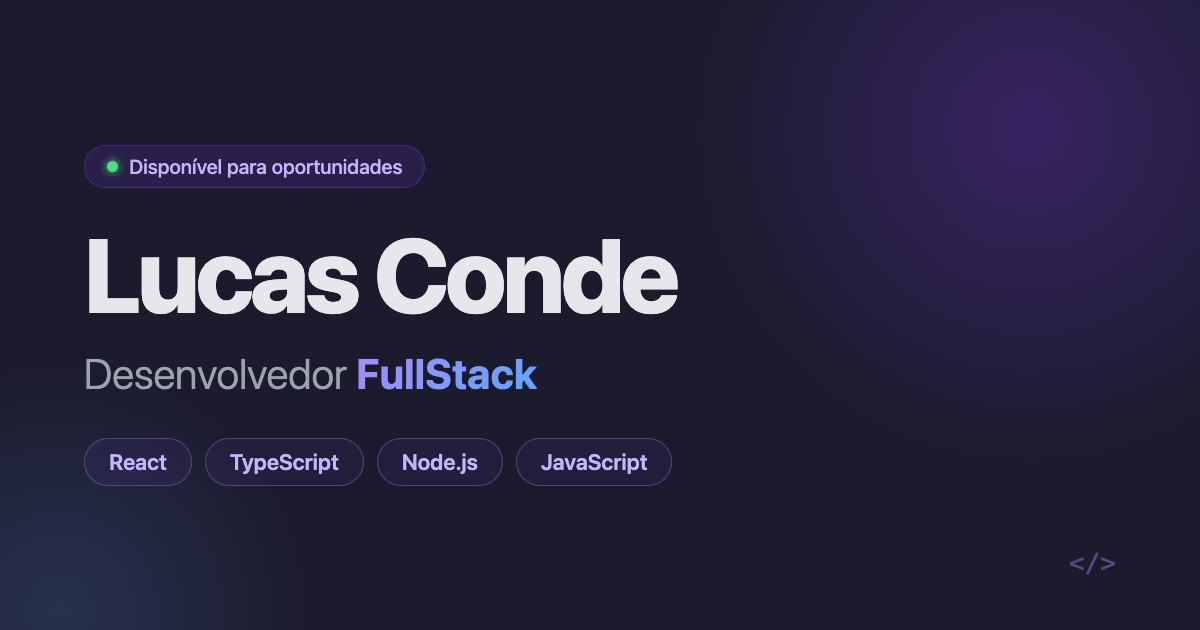
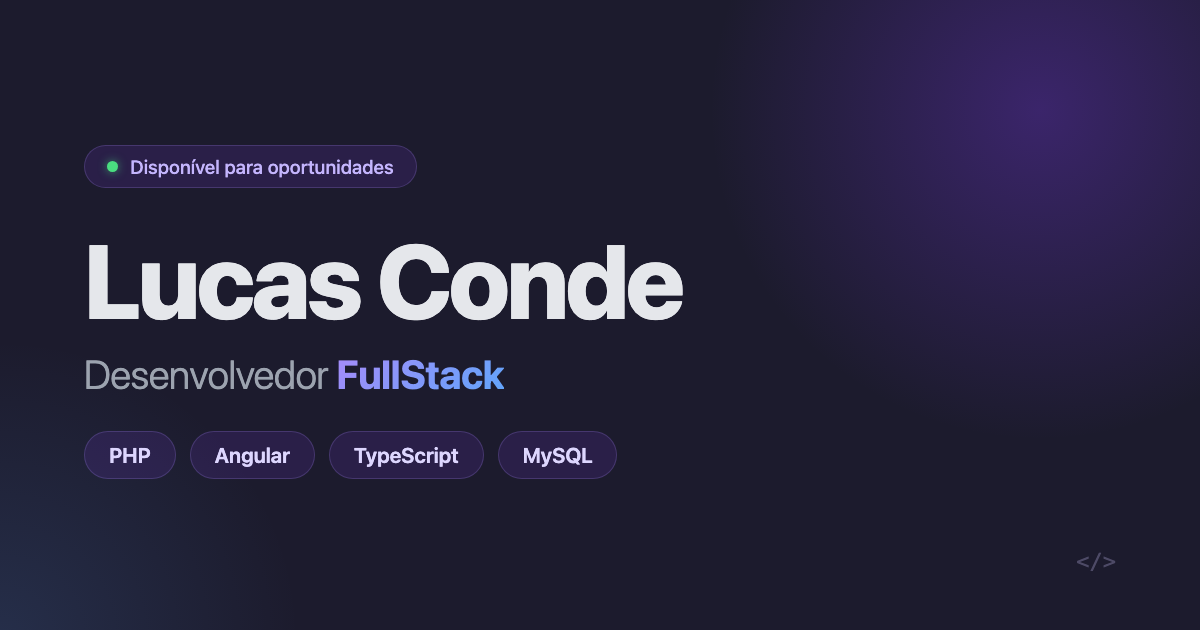
atualizaçao

diff --git a/js/components/Projects/ProjectsData.js b/js/components/Projects/ProjectsData.js
@@ -8,24 +8,24 @@ export const ProjectData = [
   {
     slug: "cliniclis",
     title: "Cliniclis",
-    tagline: "Produto próprio: sistema de gestão sob medida para clínicas, já em operação",
+    tagline: "Produto próprio: SaaS de gestão para clínicas em PHP e Angular, em produção",
     year: "2026",
     type: "Produto próprio",
     featured: true,
     description:
-      "Negócio que montei para atender clínicas médicas e de estética: um sistema de gestão que reúne agenda, prontuário, financeiro e galeria de resultados, entregue sob medida para cada clínica, mais o site institucional quando o cliente precisa. Está em operação com clínicas reais.",
+      "SaaS que criei e mantenho sozinho para clínicas médicas e estéticas: agenda, ficha com fotos de evolução, financeiro, relatórios, contratos com assinatura eletrônica e confirmação por WhatsApp num só sistema. É vendido por assinatura em dois planos e está em operação com clínicas reais. Assinantes também podem contratar o site institucional da clínica.",
     problem:
-      "Clínicas pequenas tocam a operação em papel, planilha e conversa de WhatsApp. Agendamento, ficha de anamnese, evolução do tratamento e cobrança vivem separados, então ninguém sabe ao certo quem atendeu o quê, quanto entrou no mês ou quando um paciente precisa voltar. As plataformas prontas do mercado cobram mensalidade e não se dobram ao fluxo de cada clínica.",
+      "Clínicas pequenas tocam a operação em papel, planilha e conversa de WhatsApp. Agendamento, anamnese, evolução do tratamento e cobrança vivem separados, então ninguém sabe ao certo quem atendeu o quê, quanto entrou no mês ou quando um paciente precisa voltar. As plataformas prontas costumam ser genéricas e ter suporte por ticket, longe de quem desenvolve.",
     solution:
-      "Construí um front em Angular sobre uma API REST em PHP com MariaDB, rodando em hospedagem compartilhada para caber no orçamento de clínica pequena. A base é a mesma para todos os clientes, com os dados de cada clínica isolados e os módulos habilitados um a um, o que permite entregar algo sob medida sem manter um sistema diferente por cliente.",
+      "Escrevi uma API REST em PHP puro, sem framework, sobre MariaDB, e um front em Angular com Bootstrap. Tudo roda em hospedagem compartilhada, o que mantém o custo baixo o bastante para clínica pequena. Uma única instalação atende todas as clínicas: os dados são isolados por clínica a partir do token de sessão, cada uma recebe a cor da sua marca, e o plano contratado liga ou desliga módulos tanto na API quanto nas rotas do front.",
     highlights: [
-      "Uma base, várias clínicas: dados isolados por cliente e módulos habilitáveis um a um",
-      "Agenda por dia ou semana, por profissional, com bloqueio de horário",
-      "Prontuário com fichas configuráveis por template e evolução do tratamento",
-      "Financeiro, relatórios, registro de ponto e controle de equipe",
-      "Galeria de resultados que alimenta uma vitrine pública por link rotacionável",
-      "API REST em PHP com cerca de 70 endpoints e migrações idempotentes",
-      "Ambiente local em Docker e CI barrando regressões de estilo e dívida técnica"
+      "PHP puro, sem framework: cerca de 70 endpoints e 31 mil linhas de back-end",
+      "Multi-tenant: dados isolados por clínica, com a clínica resolvida pelo token de sessão",
+      "Planos Essencial e Completo controlando módulos na API e nos guards do Angular",
+      "Contratos assinados pelo celular: link de uso único, conferência de CPF, hash SHA-256 e PDF com QR code de verificação",
+      "Senhas em bcrypt com migração transparente no login, rate limit e CORS por lista exata de origens",
+      "Agenda por profissional com histórico de alterações, retornos e confirmação por WhatsApp em 1 clique",
+      "Migrações idempotentes, ambiente local em Docker e CI com testes em Vitest e travas de dívida técnica"
     ],
     learned:
       "Hospedagem compartilhada impõe limites que não aparecem no ambiente local: extensão de PHP ausente, banco sem modo estrito aceitando dado inválido em silêncio, sistema de arquivos sensível a maiúsculas. Aprendi a validar tudo na aplicação e a nunca tratar o ambiente local como espelho da produção.",
@@ -34,7 +34,7 @@ export const ProjectData = [
     repo: null,
     demo: "https://cliniclis.com",
     demoLabel: "Site do produto",
-    stack: ["angular", "ts", "php", "mysql", "docker", "bootstrap", "git"]
+    stack: ["php", "mysql", "angular", "ts", "bootstrap", "docker", "githubactions", "git"]
   },
   {
     slug: "mirelle-sine",

diff --git a/index.html b/index.html
@@ -5,7 +5,7 @@
   <meta name="viewport" content="width=device-width, initial-scale=1.0">
 
   <title>Lucas Conde | Desenvolvedor FullStack</title>
-  <meta name="description" content="Portfólio de Lucas Conde, desenvolvedor FullStack focado em React, TypeScript e Node.js. Graduando em Ciência da Computação. Veja projetos, stack e formas de contato.">
+  <meta name="description" content="Portfólio de Lucas Conde, desenvolvedor FullStack em PHP, Angular e TypeScript e criador do Cliniclis, sistema de gestão para clínicas em produção. Graduando em Ciência da Computação.">
   <meta name="author" content="Lucas Conde">
   <link rel="canonical" href="https://portfolio-ten-coral-eidf90dyd0.vercel.app/">
   <meta name="theme-color" content="#1C1B2D">
@@ -15,7 +15,7 @@
   <meta property="og:site_name" content="Lucas Conde">
   <meta property="og:locale" content="pt_BR">
   <meta property="og:title" content="Lucas Conde | Desenvolvedor FullStack">
-  <meta property="og:description" content="Desenvolvedor FullStack focado em React, TypeScript e Node.js. Veja meus projetos e minha stack.">
+  <meta property="og:description" content="Desenvolvedor FullStack em PHP, Angular e TypeScript. Criador do Cliniclis, sistema de gestão para clínicas em produção.">
   <meta property="og:url" content="https://portfolio-ten-coral-eidf90dyd0.vercel.app/">
   <meta property="og:image" content="https://portfolio-ten-coral-eidf90dyd0.vercel.app/assets/og-image.png">
   <meta property="og:image:width" content="1200">
@@ -24,7 +24,7 @@
 
   <meta name="twitter:card" content="summary_large_image">
   <meta name="twitter:title" content="Lucas Conde | Desenvolvedor FullStack">
-  <meta name="twitter:description" content="Desenvolvedor FullStack focado em React, TypeScript e Node.js. Veja meus projetos e minha stack.">
+  <meta name="twitter:description" content="Desenvolvedor FullStack em PHP, Angular e TypeScript. Criador do Cliniclis, sistema de gestão para clínicas em produção.">
   <meta name="twitter:image" content="https://portfolio-ten-coral-eidf90dyd0.vercel.app/assets/og-image.png">
 
   <link rel="icon" href="/favicon.svg" type="image/svg+xml">
@@ -47,7 +47,7 @@
       "https://github.com/LucasTadeu14/",
       "https://www.linkedin.com/in/lucas-tadeu-4828a3330/"
     ],
-    "knowsAbout": ["React", "TypeScript", "JavaScript", "Node.js", "Next.js", "NestJS"]
+    "knowsAbout": ["PHP", "Angular", "TypeScript", "MySQL", "JavaScript", "React", "Docker"]
   }
   </script>
 </head>
@@ -63,9 +63,10 @@
     <div class="noscript">
       <h1>Lucas Conde | Desenvolvedor FullStack</h1>
       <p>
-        Graduando em Ciência da Computação, com foco em React, TypeScript e
-        JavaScript moderno. Construo SPAs performáticas, componentes
-        reutilizáveis e integrações com APIs REST.
+        Graduando em Ciência da Computação. Criei e mantenho o Cliniclis,
+        sistema de gestão para clínicas feito em PHP e Angular, em produção
+        com clínicas reais. Também entrego sites e SPAs em React e
+        JavaScript puro.
       </p>
       <p>
         <a href="https://github.com/LucasTadeu14/">GitHub</a> ·

diff --git a/js/components/About.js b/js/components/About.js
@@ -6,8 +6,13 @@ import { revealOnScroll } from "../reveal.js";
 const TIMELINE = [
   {
     period: "2026 até hoje",
+    title: "Cliniclis, produto próprio",
+    text: "Criei e mantenho um SaaS de gestão para clínicas em PHP e Angular, já em operação com clínicas reais. Cuido de tudo: API, banco, front, deploy e suporte direto às clínicas."
+  },
+  {
+    period: "2025 até hoje",
     title: "Desenvolvimento freelance",
-    text: "Primeiros projetos comerciais, levantando requisito direto com o cliente e entregando em prazo combinado."
+    text: "Sites para clientes como a Conde Clínica e a Mirelle Sine, levantando requisito direto com quem contrata e mantendo o site vivo depois da entrega."
   },
   {
     period: "2024 até hoje",
@@ -37,19 +42,21 @@ export function About({ onCleanup, onMount } = {}) {
   intro.innerHTML = `
     <p>
       Sou desenvolvedor FullStack e graduando em Ciência da Computação.
-      Trabalho principalmente com <strong>React</strong>, <strong>TypeScript</strong>
-      e <strong>Node.js</strong>, construindo interfaces que precisam ser rápidas
-      tanto para quem usa quanto para quem dá manutenção.
+      Hoje trabalho principalmente com <strong>PHP</strong>, <strong>MySQL</strong>,
+      <strong>Angular</strong> e <strong>TypeScript</strong>: é a stack do
+      <a href="/projects/cliniclis">Cliniclis</a>, o sistema de gestão para clínicas
+      que criei e mantenho em produção. Cuido dele de ponta a ponta, da API e do
+      banco ao front, ao deploy e ao suporte direto às clínicas.
     </p>
     <p>
-      Comecei pelo básico de propósito: HTML, CSS e JavaScript puro antes de
-      qualquer framework. Este portfólio, por exemplo, não usa nenhum: o
+      Também uso <strong>React</strong>, como no PetWalker. Mas comecei pelo
+      básico de propósito: HTML, CSS e JavaScript puro antes de qualquer framework. Este portfólio, por exemplo, não usa nenhum: o
       roteamento e as animações são código meu. Isso não é birra com ferramenta,
       é o caminho que me fez entender o que cada abstração está resolvendo.
     </p>
     <p>
-      Hoje procuro minha primeira oportunidade como desenvolvedor, de preferência
-      num time onde eu possa revisar código com gente mais experiente e crescer rápido.
+      Agora procuro minha primeira vaga num time de desenvolvimento, de preferência
+      onde eu possa revisar código com gente mais experiente e crescer rápido.
     </p>
   `;
 

diff --git a/js/components/Home.js b/js/components/Home.js
@@ -75,11 +75,11 @@ export function Home({ onCleanup, onMount } = {}) {
   const description = document.createElement("p");
   description.classList.add("Home_desc");
   description.textContent =
-    "Graduando em Ciência da Computação, com foco em React, TypeScript e JavaScript moderno. Construo SPAs performáticas, componentes reutilizáveis e integrações com APIs REST.";
+    "Graduando em Ciência da Computação. Criei e mantenho o Cliniclis, sistema de gestão para clínicas feito em PHP e Angular, em produção com clínicas reais. Também entrego sites e SPAs em React e JavaScript puro.";
 
   const pillsRow = document.createElement("ul");
   pillsRow.classList.add("Home_pills");
-  ["React", "TypeScript", "Node.js", "JavaScript", "Git"].forEach((tech, i) => {
+  ["PHP", "Angular", "TypeScript", "MySQL", "React"].forEach((tech, i) => {
     const pill = document.createElement("li");
     pill.classList.add("Home_pill");
     pill.textContent = tech;
@@ -129,7 +129,7 @@ export function Home({ onCleanup, onMount } = {}) {
     // Deriva da lista real: adicionar um projeto atualiza o número sozinho.
     { value: `${ProjectData.length}`, label: ProjectData.length === 1 ? "Projeto" : "Projetos" },
     { value: "2+", label: "Anos estudando" },
-    { value: "React", label: "Stack principal" }
+    { value: "PHP · Angular", label: "Stack principal" }
   ].forEach(({ value, label }) => {
     const stat = document.createElement("div");
     stat.classList.add("Home_stat");
@@ -229,9 +229,10 @@ function buildTerminal(onCleanup) {
     `  ${prp("nome")}${op(":")}      ${str("Lucas Conde")},`,
     `  ${prp("role")}${op(":")}      ${str("FullStack Dev")},`,
     `  ${prp("stack")}${op(":")}     [`,
-    `    ${str("React")}, ${str("TypeScript")},`,
-    `    ${str("Node.js")}, ${str("JavaScript")},`,
+    `    ${str("PHP")}, ${str("Angular")},`,
+    `    ${str("TypeScript")}, ${str("MySQL")},`,
     `  ],`,
+    `  ${prp("produto")}${op(":")}   ${str("cliniclis.com")},`,
     `  ${prp("formacao")}${op(":")}  ${str("C. Computação")},`,
     `  ${prp("disponivel")}${op(":")} ${bl("true")},`,
     `};`,

diff --git a/js/components/Skills/SkillsData.js b/js/components/Skills/SkillsData.js
@@ -13,14 +13,14 @@ export const SkillGroups = [
   {
     id: "core",
     title: "Trabalho no dia a dia",
-    description: "Stack do projeto que mais ocupa meu tempo hoje, da interface ao banco.",
-    skills: ["angular", "ts", "php", "mysql", "js", "html", "css", "git"]
+    description: "Stack do Cliniclis, o projeto que mais ocupa meu tempo hoje, da API ao banco.",
+    skills: ["php", "mysql", "angular", "ts", "js", "html", "css", "git"]
   },
   {
     id: "working",
     title: "Uso com confiança",
     description: "Já entreguei funcionalidades com estas ferramentas.",
-    skills: ["react", "nodejs", "next", "firebase", "tailwind", "bootstrap", "docker"]
+    skills: ["react", "bootstrap", "docker", "githubactions", "firebase", "tailwind", "nodejs", "next"]
   },
   {
     id: "learning",

diff --git a/js/app.js b/js/app.js
@@ -16,7 +16,7 @@ const routes = [
     path: "/",
     view: Home,
     title: "Lucas Conde | Desenvolvedor FullStack",
-    description: "Portfólio de Lucas Conde, desenvolvedor FullStack focado em React, TypeScript e Node.js."
+    description: "Desenvolvedor FullStack em PHP, Angular e TypeScript. Criador do Cliniclis, sistema de gestão para clínicas em produção."
   },
   {
     path: "/about",
@@ -28,7 +28,7 @@ const routes = [
     path: "/projects",
     view: Projects,
     title: `Projetos | ${SITE_NAME}`,
-    description: "Projetos de front-end e full-stack: React, TypeScript, Angular e JavaScript puro."
+    description: "Projetos full-stack e front-end: PHP, Angular, React e JavaScript puro."
   },
   {
     path: "/projects/:slug",

diff --git a/css/components.css b/css/components.css
@@ -465,6 +465,18 @@
   font-weight: 600;
 }
 
+.about_intro a {
+  color: var(--accent-light);
+  font-weight: 600;
+  text-decoration: underline;
+  text-decoration-color: var(--accent-a30);
+  text-underline-offset: 3px;
+}
+
+.about_intro a:hover {
+  text-decoration-color: currentColor;
+}
+
 .about_cta {
   display: flex;
   flex-wrap: wrap;
